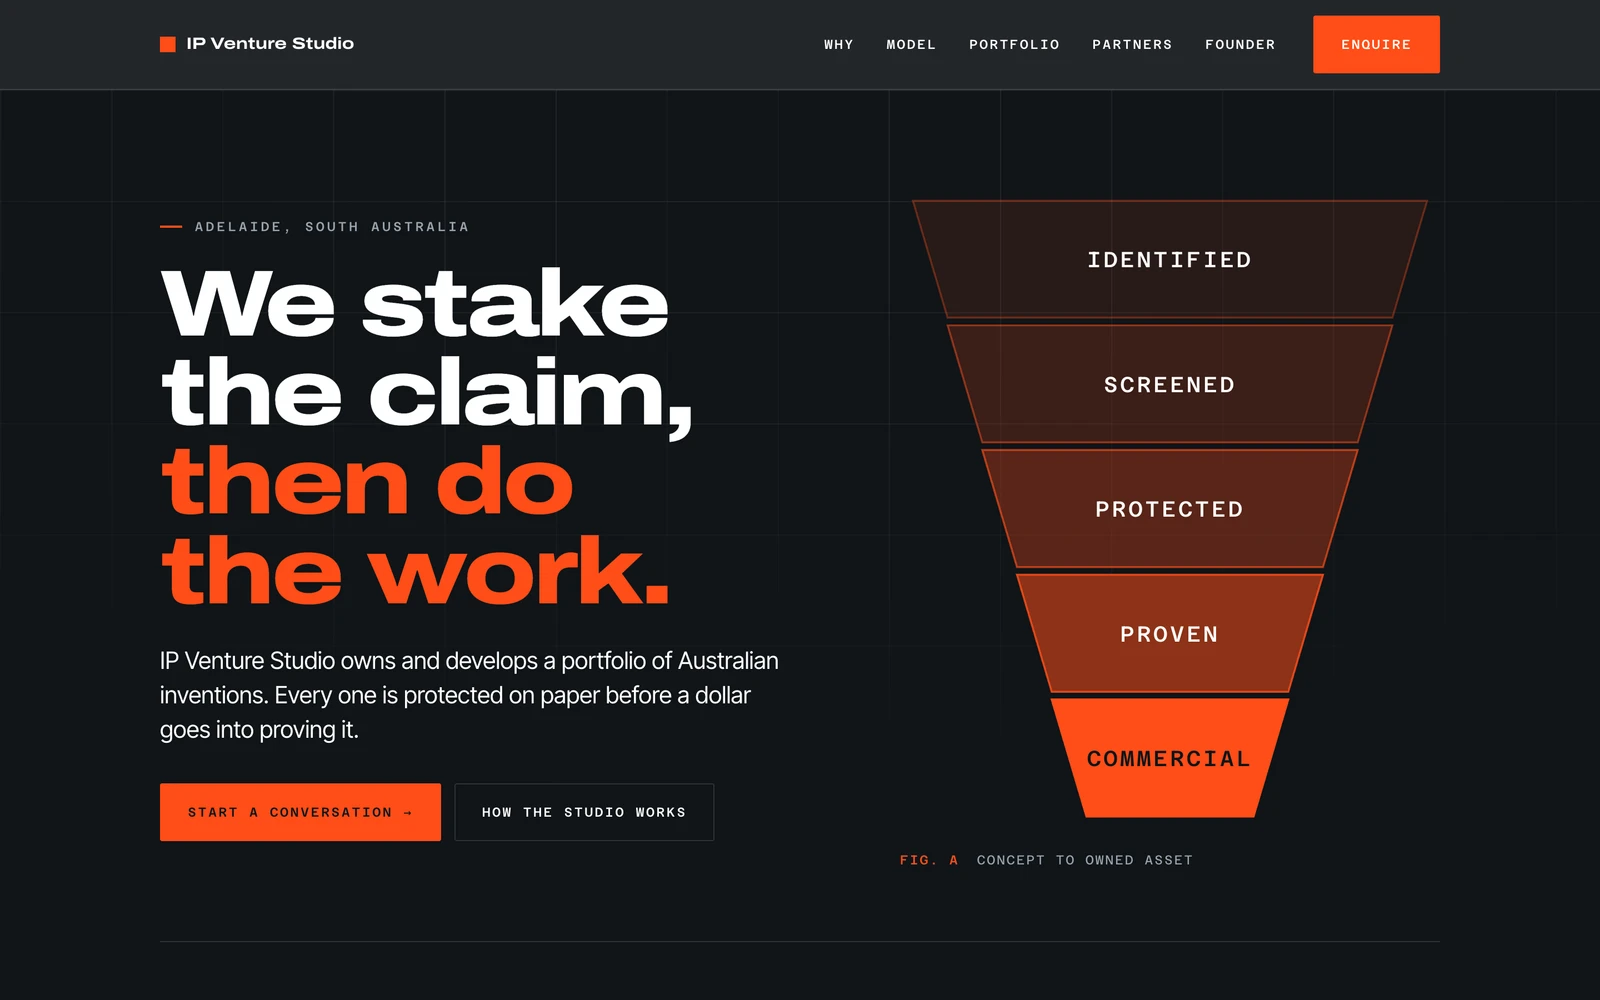
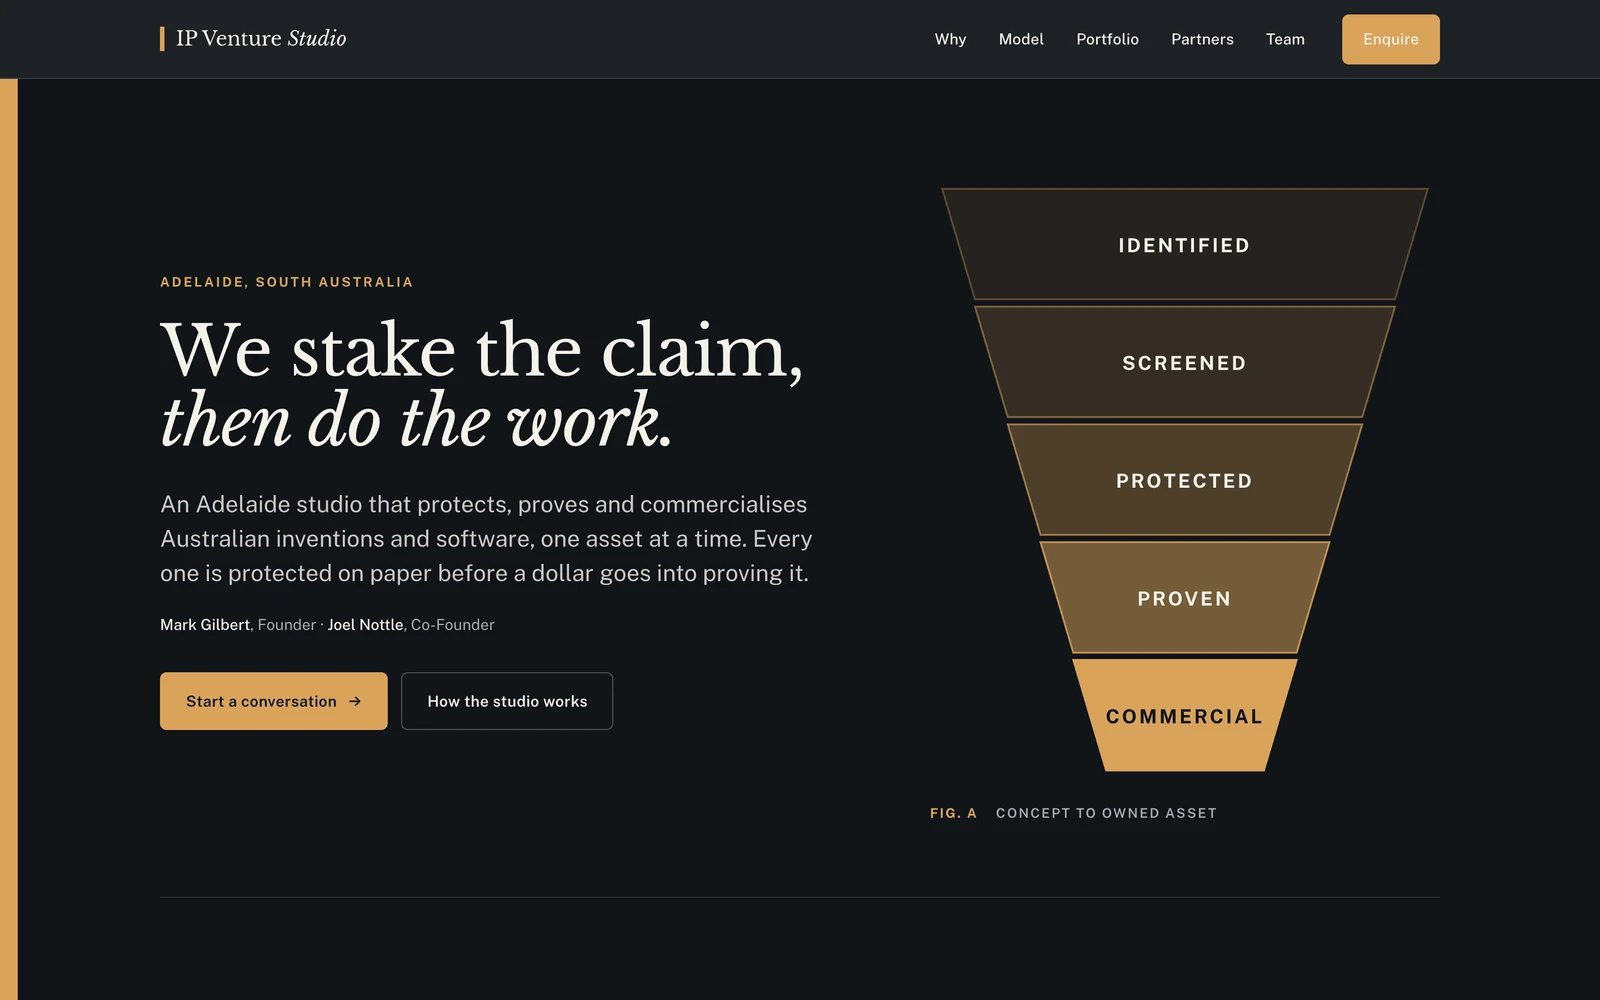
Update IP Venture Studio screenshots and copy for its redesign

diff --git a/src/content/projects/ip-venture-studio/index.md b/src/content/projects/ip-venture-studio/index.md
@@ -13,8 +13,8 @@ brief: Explain what a venture studio does and how it works, and show a portfolio
 built:
   - Designed and built the site from scratch, with its own type, colour and diagram style
   - The studio's five-stage model, from protect to commercialise, explained with simple figures
-  - A portfolio section that describes six assets from a safe distance
-  - Pages for government, research and manufacturing partners, and an enquiry form
+  - A portfolio section that describes six lead assets from a safe distance
+  - Sections for partners and investors, and an enquiry process that starts with an NDA and a confidential briefing
   - Hosted on Cloudflare, with GA4 set up from launch
 stack: [HTML, CSS, JavaScript, Cloudflare, GA4]
 url: https://ipventurestudio.com.au
